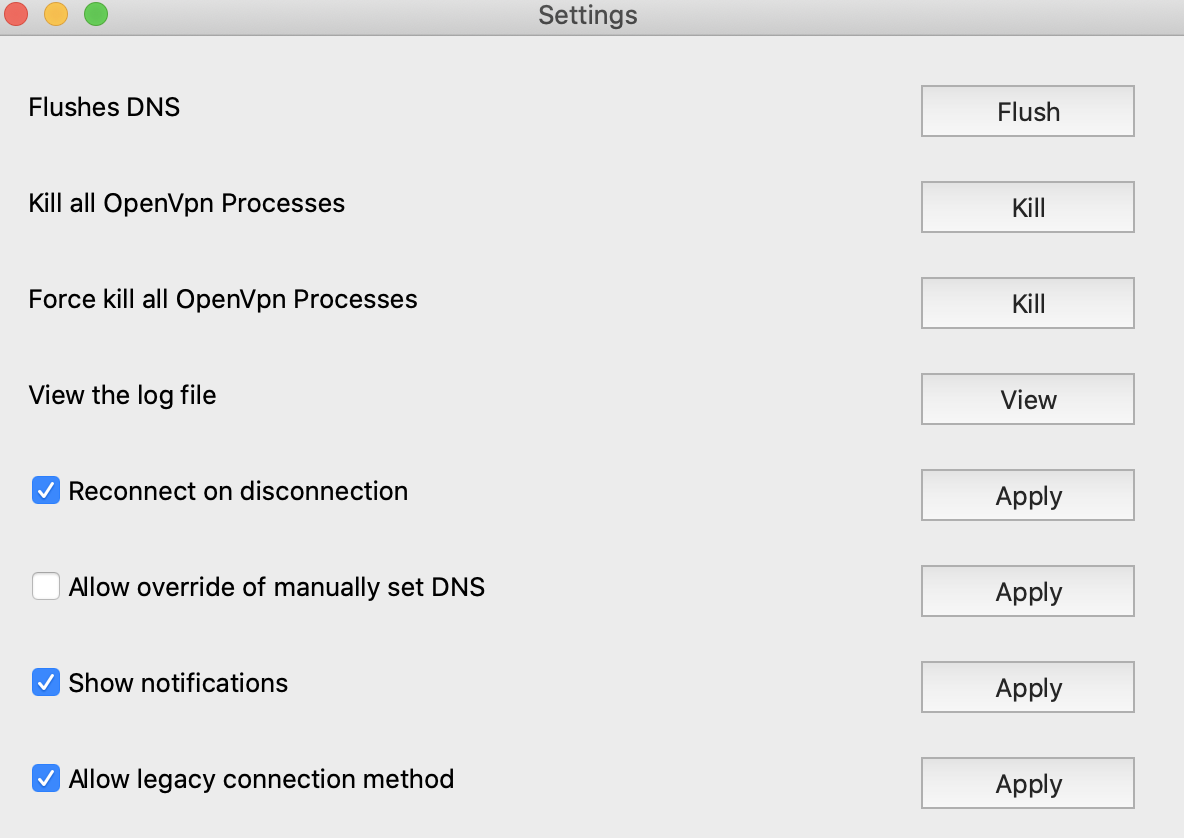
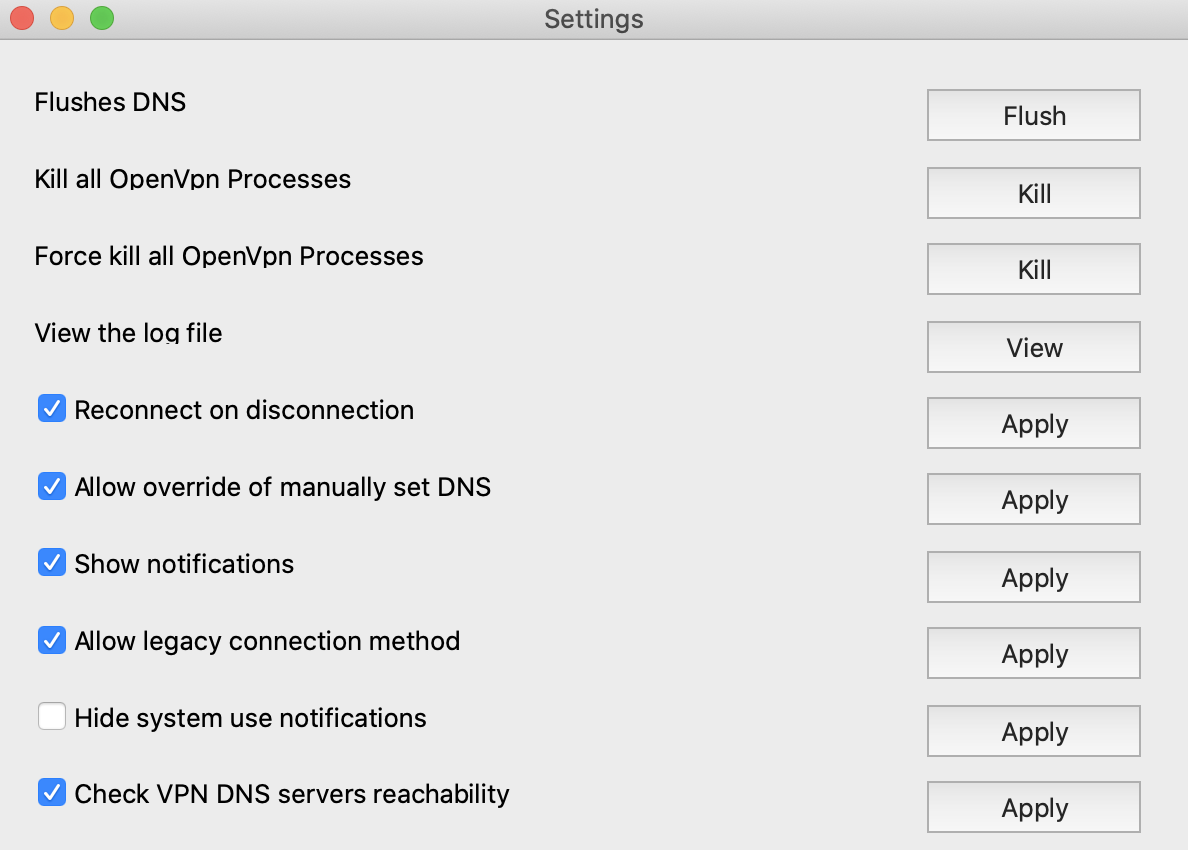
VPN Client 2.12

diff --git a/Downloads/samlclient.rst b/Downloads/samlclient.rst
@@ -26,7 +26,7 @@ The VPN Client can be installed on desktop platforms and is supported on various
 
 Consult the VPN client `user guide <http://docs.aviatrix.com/Downloads/vpnclientguide.html>`__ for how to use it.
 
-Latest version: 2.11.6 - (July 22 2020) `Changelog. <http://docs.aviatrix.com/HowTos/changelog.html>`_
+Latest version: 2.12.10 - (Sep. 3 2020) `Changelog. <http://docs.aviatrix.com/HowTos/changelog.html>`_
 
 Please ask your Aviatrix Administrator to upgrade the Aviatrix Controller to version 4.7.501 + to prevent seeing certificate errors -`Ref. <https://docs.aviatrix.com/HowTos/field_notices.html#field-notice-0005-2019-07-22>`_ 
 

diff --git a/Downloads/vpnclientguide.rst b/Downloads/vpnclientguide.rst
@@ -214,6 +214,8 @@ Here you can perform special operations if Troubleshooting is required
 
 3. Force kill all OpenVPN process: Terminates other OpenVPN processes that are running abruptly
 
+4. Check VPN DNS server reachability: (MacOS only) If this option is checked, it will apply the VPC DNS servers in the MacOS system. If it is disabled, it will use the local DNS servers or other local DNS mechanism (e.g. CISCO Umbrella)
+
 
 ****************************
 Connecting to a SAML Gateway

diff --git a/HowTos/changelog.rst b/HowTos/changelog.rst
@@ -1,5 +1,11 @@
 Aviatrix VPN Client Changelog
 -----------------------------
+2.12.10 - September 3 2020
+  - Support Ubuntu 20.04 FIPS
+  - A toggle to support Cisco Umbrella DNS servers or the VPC DNS servers on MacOS
+  - Support multiple MacOS system login accounts
+  - Allow override of manually set DNS flag to be enabled by default on MacOS
+
 2.11.6 - July 22 2020
  - OpenSSL lib of the MacOS client is updated to 1.1.11g
  - OpenSSL lib of the Windows client is updated to 1.1.11f
